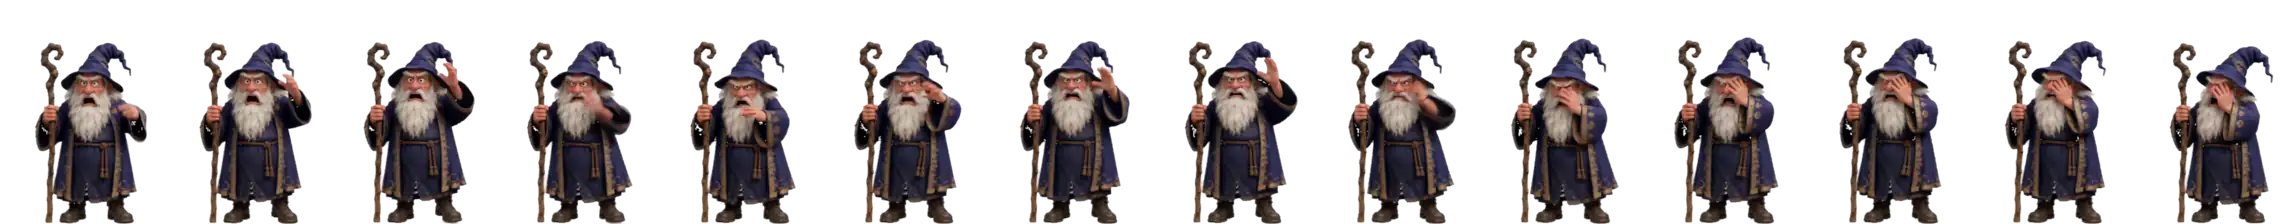
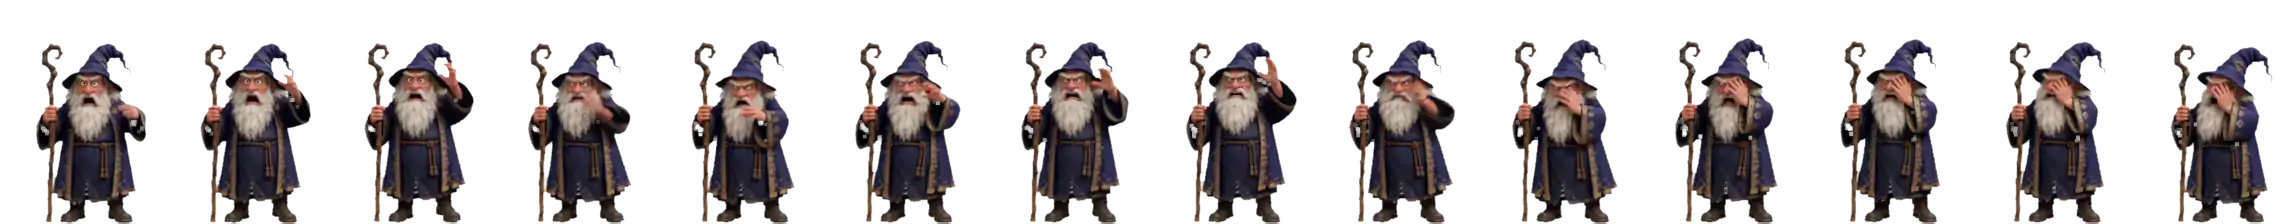
Trim the white halo off the pet sprites
The clip frames are keyed from white-background video, and their outer
ring of pixels kept the white they were blended with, so every pet showed
a light outline on a dark pane. keyWhite erodes the outline at clip size,
which is only about a quarter pixel once the frame is shrunk to 192 wide.

- Every clip frame of both pets, and the wizard's still, has its outline
  pulled in by 1px (alpha erosion per frame, re-encoded at the same
  cwebp settings). Edge brightness drops from ~120 to ~70, in line with
  the pixels inside it. The ninja's still had no halo and is unchanged.
- make-pet.ts now does the same 1px trim at the final frame size, for
  clips and for stills keyed from a white background, so new pets come
  out clean. Checked by rebuilding the wizard's waving clip and still
  from the original Higgsfield files.

diff --git a/scripts/make-pet.ts b/scripts/make-pet.ts
@@ -115,6 +115,14 @@ const keyWhite = (input: string, output: string, size: number) => {
   ])
 }
 
+// ImageMagick arguments that pull a cut-out's outline in by one pixel at its
+// final size. keyWhite erodes at clip size, about a quarter pixel once the
+// frame is shrunk, so the edge pixels still hold the white they were blended
+// with and show as a light halo on a dark pane. Outside the image counts as
+// transparent. (Eroding an extracted copy and putting it back with
+// CopyOpacity breaks after -distort: it comes back all opaque.)
+const TRIM_EDGE = ['-virtual-pixel', 'transparent', '-channel', 'A', '-morphology', 'Erode', 'Square:1', '+channel']
+
 const makeStill = (picture: string, petDir: string) => {
   mkdirSync(petDir, { recursive: true })
   const work = mkdtempSync(join(tmpdir(), 'pet-still-'))
@@ -131,7 +139,9 @@ const makeStill = (picture: string, petDir: string) => {
   run([
     'magick', cut, '-trim', '+repage', '-resize', fit, '-background', 'none',
     '-gravity', 'south', '-extent', `${FRAME_WIDTH}x${FRAME_HEIGHT - STILL_MARGIN}`,
-    '-gravity', 'north', '-extent', `${FRAME_WIDTH}x${FRAME_HEIGHT}`, still,
+    '-gravity', 'north', '-extent', `${FRAME_WIDTH}x${FRAME_HEIGHT}`,
+    // A picture that came with its own transparency has a clean edge already.
+    ...(hasAlpha ? [] : TRIM_EDGE), still,
   ])
   run(['cwebp', '-quiet', '-lossless', still, '-o', join(petDir, 'still.webp')])
   run([
@@ -247,7 +257,7 @@ const makeClip = (petDir: string, clipName: string, clip: string) => {
     run([
       'magick', join(keyed, name), '-background', 'none', '-virtual-pixel', 'transparent',
       '-distort', 'SRT', `${x},${y} ${scale} 0 ${anchor.x},${anchor.y}`,
-      '-crop', crop, '+repage', '-resize', `${FRAME_WIDTH}x${CANVAS_HEIGHT}!`, join(canvas, name),
+      '-crop', crop, '+repage', '-resize', `${FRAME_WIDTH}x${CANVAS_HEIGHT}!`, ...TRIM_EDGE, join(canvas, name),
     ])
   })
 
